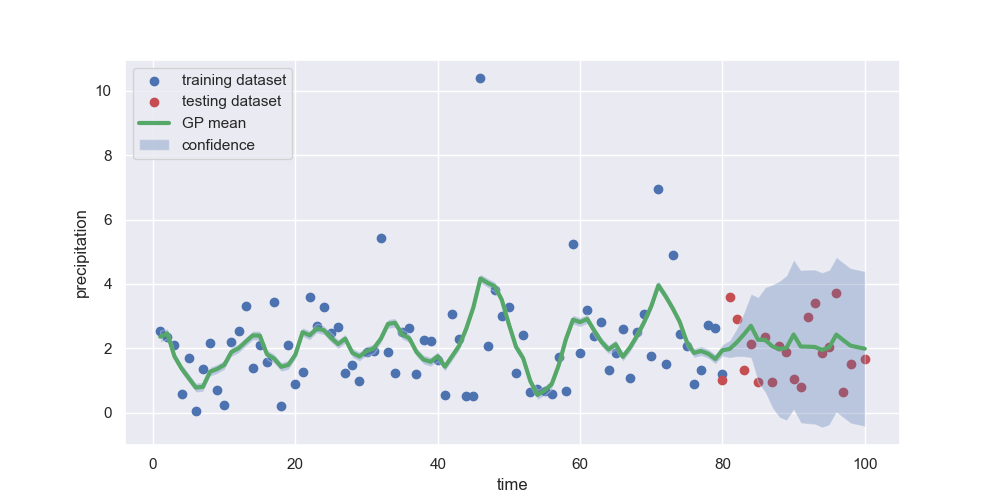
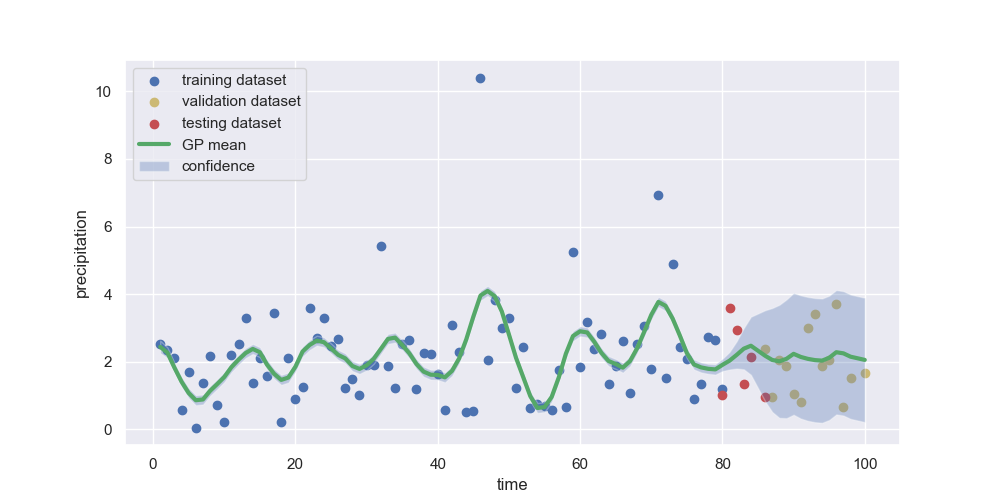
Implement optimisation on validation set correctly

diff --git a/optimise.py b/optimise.py
@@ -29,20 +29,27 @@ def load_data(lat: float = 51.875, lon: float = 0.9375, total_entries: int = 198
     pr_df = pd.read_csv(f"./data/{lat_str}x{lon_str}.csv")
 
     last_train_index = int(total_entries * train_size)
+    last_validation_index = int(last_train_index + ((total_entries - last_train_index) // 3))
 
     training_set = pr_df.iloc[0:last_train_index]
-    test_set = pr_df.iloc[last_train_index:total_entries]
+    validation_set = pr_df.iloc[last_train_index:last_validation_index]
+    test_set = pr_df.iloc[last_validation_index:total_entries]
 
-    x_train = np.linspace(1, last_train_index, last_train_index, dtype=np.int64)
-    x_test = np.linspace(last_train_index, total_entries, total_entries - last_train_index, dtype=np.int64)
-    x_all = np.concatenate((x_train, x_test))
+    x_train = np.linspace(1, last_train_index,
+                          last_train_index, dtype=np.int64)
+    x_valid = np.linspace(last_train_index, last_validation_index,
+                          last_validation_index - last_train_index, dtype=np.int64)
+    x_test = np.linspace(last_validation_index, total_entries,
+                         total_entries - last_validation_index, dtype=np.int64)
+    x_all = np.concatenate((x_train, x_valid, x_test))
 
     # Renormalise precipitation measurements since they're all approximately r*10^-5
     y_train = (training_set["pr"].to_numpy()) * 10 ** 5
+    y_valid = (validation_set["pr"].to_numpy()) * 10 ** 5
     y_test = test_set["pr"].to_numpy() * 10 ** 5
-    y_all = np.concatenate([y_train, y_test])
+    y_all = np.concatenate([y_train, y_valid, y_test])
 
-    return x_train, y_train, x_test, y_test, x_all, y_all
+    return x_train, y_train, x_valid, y_valid, x_test, y_test, x_all, y_all
 
 
 def fit_gp(hyperparameters: np.ndarray) -> float:
@@ -59,10 +66,13 @@ def fit_gp(hyperparameters: np.ndarray) -> float:
                  GPy.kern.PeriodicMatern32(1, lengthscale=hyperparameters[i, 2], variance=hyperparameters[i, 4])
         model = GPy.models.GPRegression(x_train.reshape(-1, 1), y_train.reshape(-1, 1), kernel=kernel, normalizer=True,
                                         noise_var=0.05)
-        y_mean, y_std = model.predict(x_all.reshape(-1, 1))
+
+        # Here we must *only* predict on the validation set, not on all the values.
+        # We want to tune the hyperparameters using just this data.
+        y_mean, y_std = model.predict(x_valid.reshape(-1, 1))
         y_pred = draw_samples(y_mean, y_std)
 
-        loss += rms_error(y_all, y_pred)
+        loss += rms_error(y_valid, y_pred)
 
     return loss
 
@@ -108,7 +118,9 @@ def grid_search_domains(k: int, maximum_iterations: int, model_type: str, initia
         toc = time.perf_counter()
 
         log(out, args, optimal_hparams, best_error, dom_tuples, toc - tic)
-        plot_fitted_model(x_train, x_test, x_all, y_train, y_test, y_mean, y_std, f"{composite_filename}.png")
+        plot_fitted_model(x_train, x_valid, x_test, x_all,
+                          y_train, y_valid, y_test, y_mean, y_std,
+                          f"{composite_filename}.png")
     out.close()
 
 
@@ -161,6 +173,8 @@ def optimise(maximum_iterations: int = 10, dom_tuples: list[tuple] = None, model
     model = GPy.models.GPRegression(x_train.reshape(-1, 1), y_train.reshape(-1, 1), kernel=kernel, normalizer=True,
                                     noise_var=0.05)
 
+    # We are done optimising, so we can now make predictions
+    # for the entire dataset, including the test set.
     y_mean, y_std = model.predict(x_all.reshape(-1, 1))
     y_pred = draw_samples(y_mean, y_std)
 
@@ -169,15 +183,17 @@ def optimise(maximum_iterations: int = 10, dom_tuples: list[tuple] = None, model
     return optimal_hparams, best_rmse, y_mean, y_std
 
 
-def plot_fitted_model(x_train: np.ndarray, x_test: np.ndarray, x_all: np.ndarray,
-                      y_train: np.ndarray, y_test: np.ndarray, y_mean: np.ndarray, y_std: np.ndarray,
-                      filename) -> None:
+def plot_fitted_model(x_train: np.ndarray, x_valid: np.ndarray, x_test: np.ndarray, x_all: np.ndarray,
+                      y_train: np.ndarray, y_valid: np.ndarray, y_test: np.ndarray, y_mean: np.ndarray,
+                      y_std: np.ndarray, filename) -> None:
     """Plots a fitted GP model's predictions.
         :param x_train: The training set months.
+        :param x_valid: The validation set months.
         :param x_test: The test set months.
         :param x_all: The full training + test set.
         :param y_train: The training precipitation values.
         :param y_test: The test precipitation values.
+        :param y_valid: The validation precipitation values.
         :param y_mean: The mean of the predictions.
         :param y_std: The standard deviation of the predictions.
         :param filename: The filename to save the plot to.
@@ -186,6 +202,7 @@ def plot_fitted_model(x_train: np.ndarray, x_test: np.ndarray, x_all: np.ndarray
     plt.xlabel("time")
     plt.ylabel("precipitation")
     plt.scatter(x_train, y_train, lw=1, color="b", label="training dataset")
+    plt.scatter(x_valid, y_valid, lw=1, color="y", label="validation dataset")
     plt.scatter(x_test, y_test, lw=1, color="r", label="testing dataset")
     plt.plot(x_all, y_mean, lw=3, color="g", label="GP mean")
     plt.fill_between(x_all, (y_mean + y_std).reshape(y_mean.shape[0]), (y_mean - y_std).reshape(y_mean.shape[0]),
@@ -198,9 +215,9 @@ if __name__ == '__main__':
     args = parse_args()
 
     # Load the data.
-    x_train, y_train, x_test, y_test, x_all, y_all = load_data(lat=args.lat,
-                                                               lon=args.lon,
-                                                               total_entries=args.num_months)
+    x_train, y_train, x_test, y_test, x_valid, y_valid, x_all, y_all = load_data(lat=args.lat,
+                                                                                 lon=args.lon,
+                                                                                 total_entries=args.num_months)
 
     composite_filename = f"./logs/{args.model_type}_{args.acquisition_type}_{args.acquisition_optimiser_type}_" \
                          f"{str(args.lat).replace('.', 'p')}_{str(args.lon).replace('.', 'p')}_" \
@@ -217,7 +234,7 @@ if __name__ == '__main__':
                             acquisition_type=args.acquisition_type,
                             acquisition_weight=args.acquisition_weight,
                             acquisition_optimiser_type=args.acquisition_optimiser_type,
-                            composite_filename=composite_filename,)
+                            composite_filename=composite_filename, )
     else:
         parsed_domain_tuples = []
 
@@ -240,4 +257,6 @@ if __name__ == '__main__':
         out = open(f"{composite_filename}.txt", "a+")
         log(out, args, optimal_hparams, best_error, parsed_domain_tuples, toc - tic)
         out.close()
-        plot_fitted_model(x_train, x_test, x_all, y_train, y_test, y_mean, y_std, f"{composite_filename}.png")
+        plot_fitted_model(x_train, x_valid, x_test, x_all,
+                          y_train, y_valid, y_test, y_mean, y_std,
+                          f"{composite_filename}.png")
